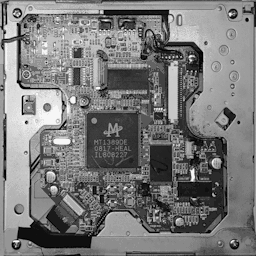
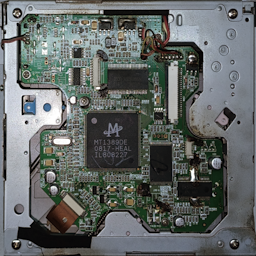
aaaaa

diff --git a/index.html b/index.html
@@ -37,7 +37,6 @@
 
         .gray_rect {
             max-width: 800px;
-            max-height: 800px;
             background-color: rgba(0,0,0,0.5);
             border-radius: 3rem;
             z-index: 1;
@@ -164,7 +163,12 @@
             overflow: hidden;
             z-index:-1;
         }
-
+        .sociallink {
+            width: 5%;
+            border-radius: 5px;
+            aspect-ratio: 1;
+            padding-inline: 3px;
+        }
         .checkerboard {
             width: 100%;
             height: 100%;
@@ -231,18 +235,24 @@
                 </div>
             </div>
             <div class="descbox">
-                hello, I am a young developer interested in gamdev, design and music.
-                <br />my fav music genres are atmospheric dnb, house and tracker (demoscene) music.
-                <br />I can (mostly) call myself experienced in Roblox Studio, Paint.NET and OpenMPT.
-                <br />in Roblox Studio I can: build, script, design UI and (pretty badly) animate.
+                hello, I am a young guy interested in microelectronics, soldering, gamedev, C++ development and design.
+                <br />
+                <br />my fav music genres are atmospheric/intelligent dnb, Sonic CD-type, Deltarune OST-like and tracker (demoscene) music.
+                <br />
+                <br />my hobbies are: sodlering, microelectronic engineering, C++ coding, design, building, scripting and UI design in Roblox Studio
+                <br />
+                <br />my fav aesthetics are: industrial hell, neo-industrialism and liminalism
             </div>
         </div>
         <div class="ass">
             <div class="descbox">
-                I love drawing low-res hl1 like textures, do building in Roblox Studio, and even sometimes write music.
-                And I would be pretty happy if you visited my "works" page!
-                
-                <br/>fav langs: python, luau, cpp<br />fav progs: blender, visual studio, paint.net, openMPT.
+                my favourite programming langs: python, luaU, C++
+                <br />
+                <br />
+                progs I use in my projects: Arduino IDE, OpenMPT, Visual Studio (2022), Paint.NET (not to be confused with MS Paint), Roblox Studio, Blender, Inkscape, FreeCAD, UltiMaker Cura
+                <br />
+                <br />
+                my favourite games are: Yume 2kki, Yume Nikki, Deltarune, Team Fortess 2, Half-life, Half-life 2, Half-life 2: Episode One, Half-life 2: Episode Two, Half-life: Opposing Force, Half-life: Blue Shift, Black Mesa, The Stanley Parable, Outcore, and, of course Minecraft (And especially Create, the mod)
             </div>
             <div class="ava">
                 <img src="a.png" class="img2"/>
@@ -250,7 +260,9 @@
         </div>
         <div class="ass">
             <div class="descbox">
-                <a class="a2" href="https://github.com/kafelbb">github</a>
+                <a href="https://github.com/kafelbb"><img src="github.png" class="sociallink" /></a>
+                <a href="https://www.tiktok.com/@rosinfluxx"><img src="tiktok.webp" class="sociallink" /></a>
+                <a href="https://www.youtube.com/@kafelbb"><img src="yt.png" class="sociallink" /></a>
             </div>
         </div>
     </div>
